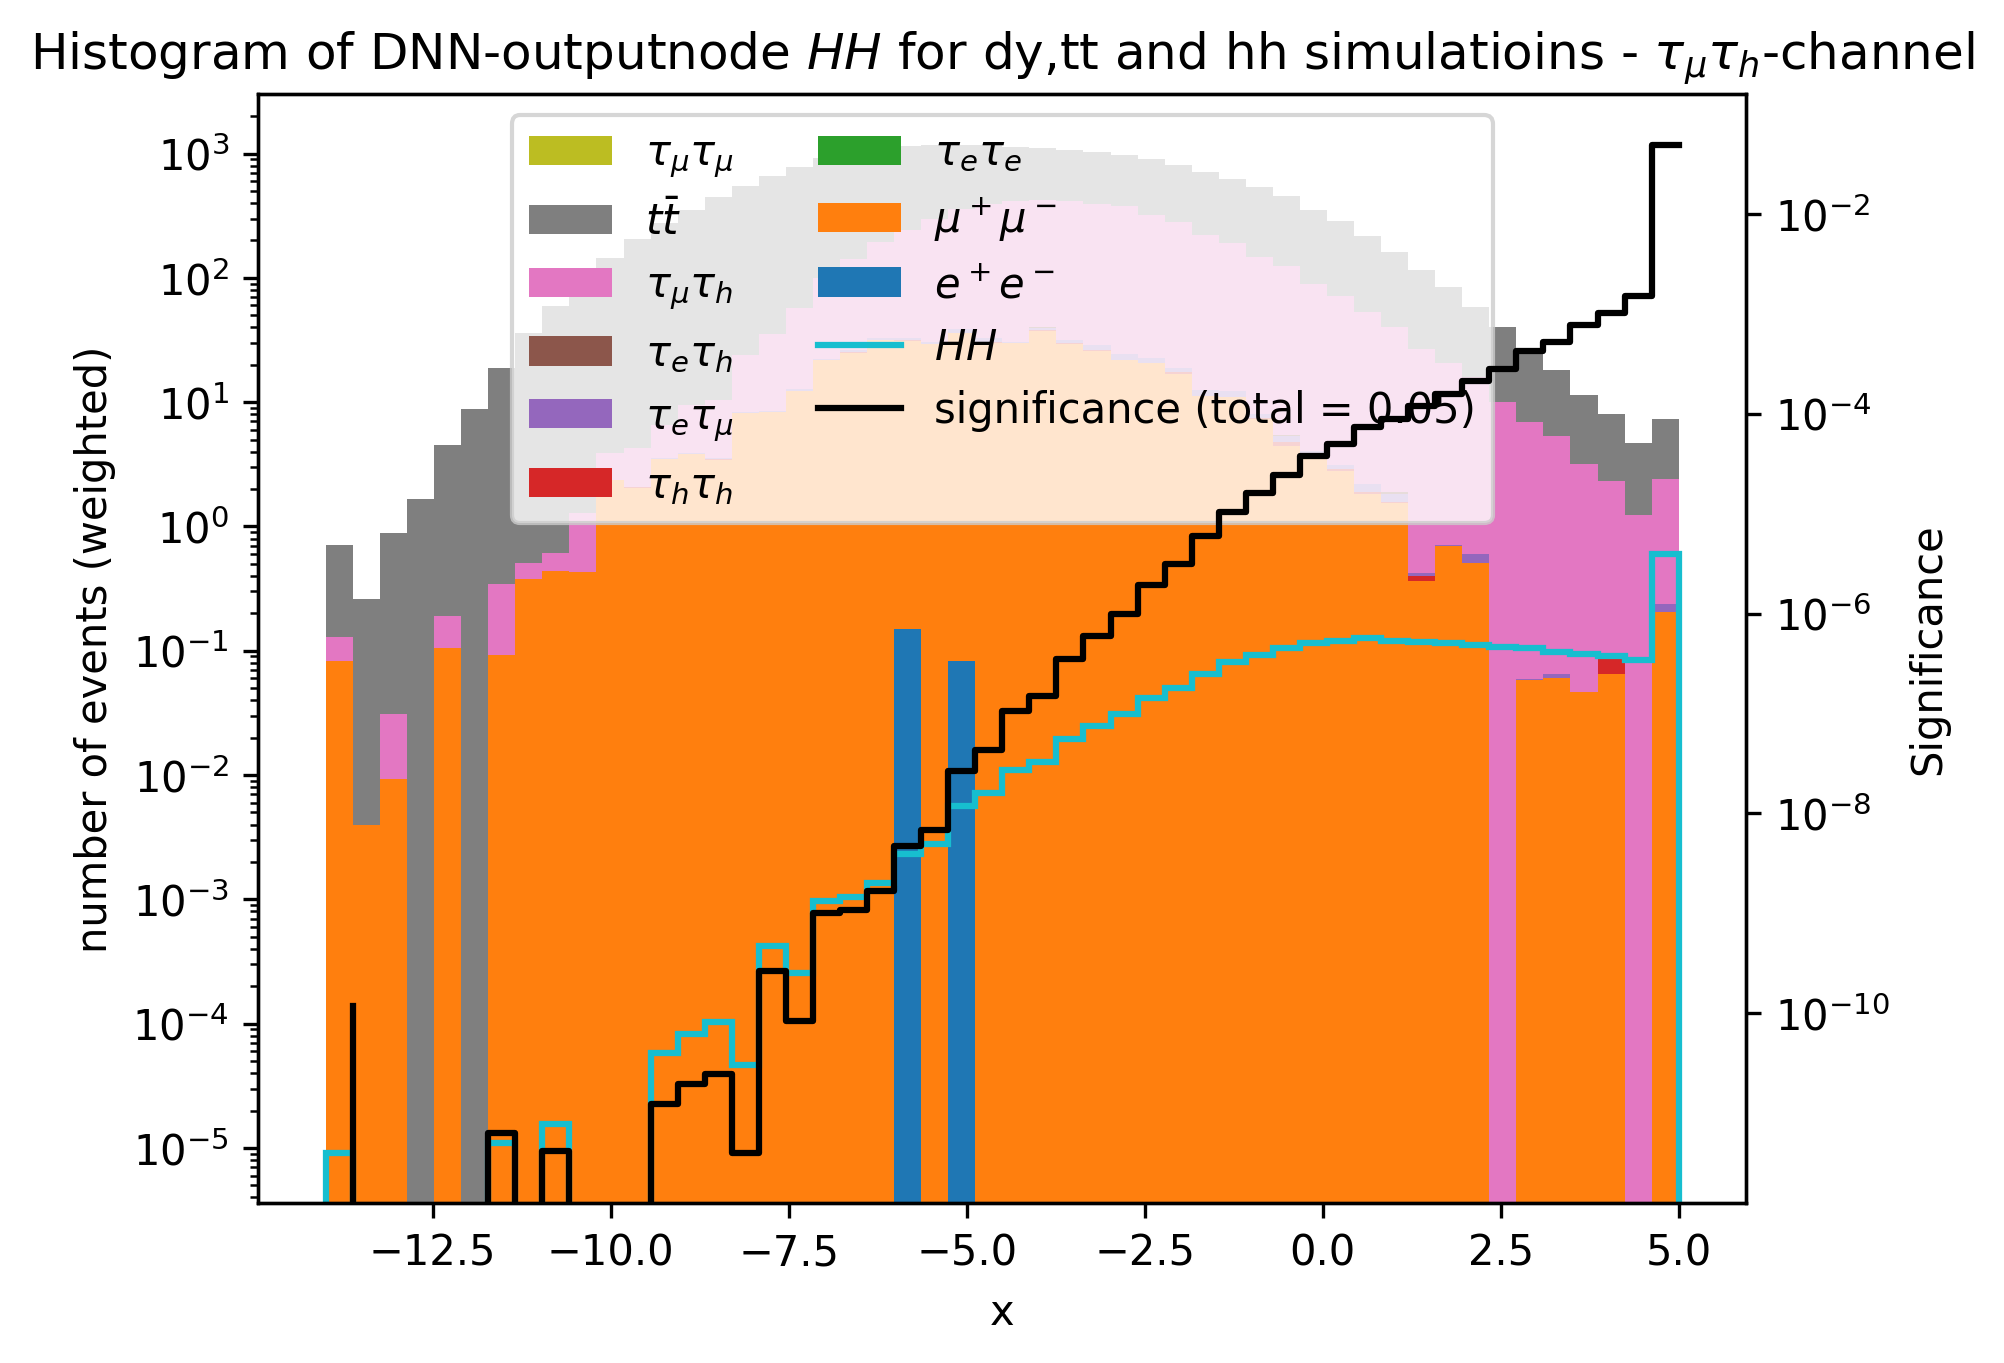
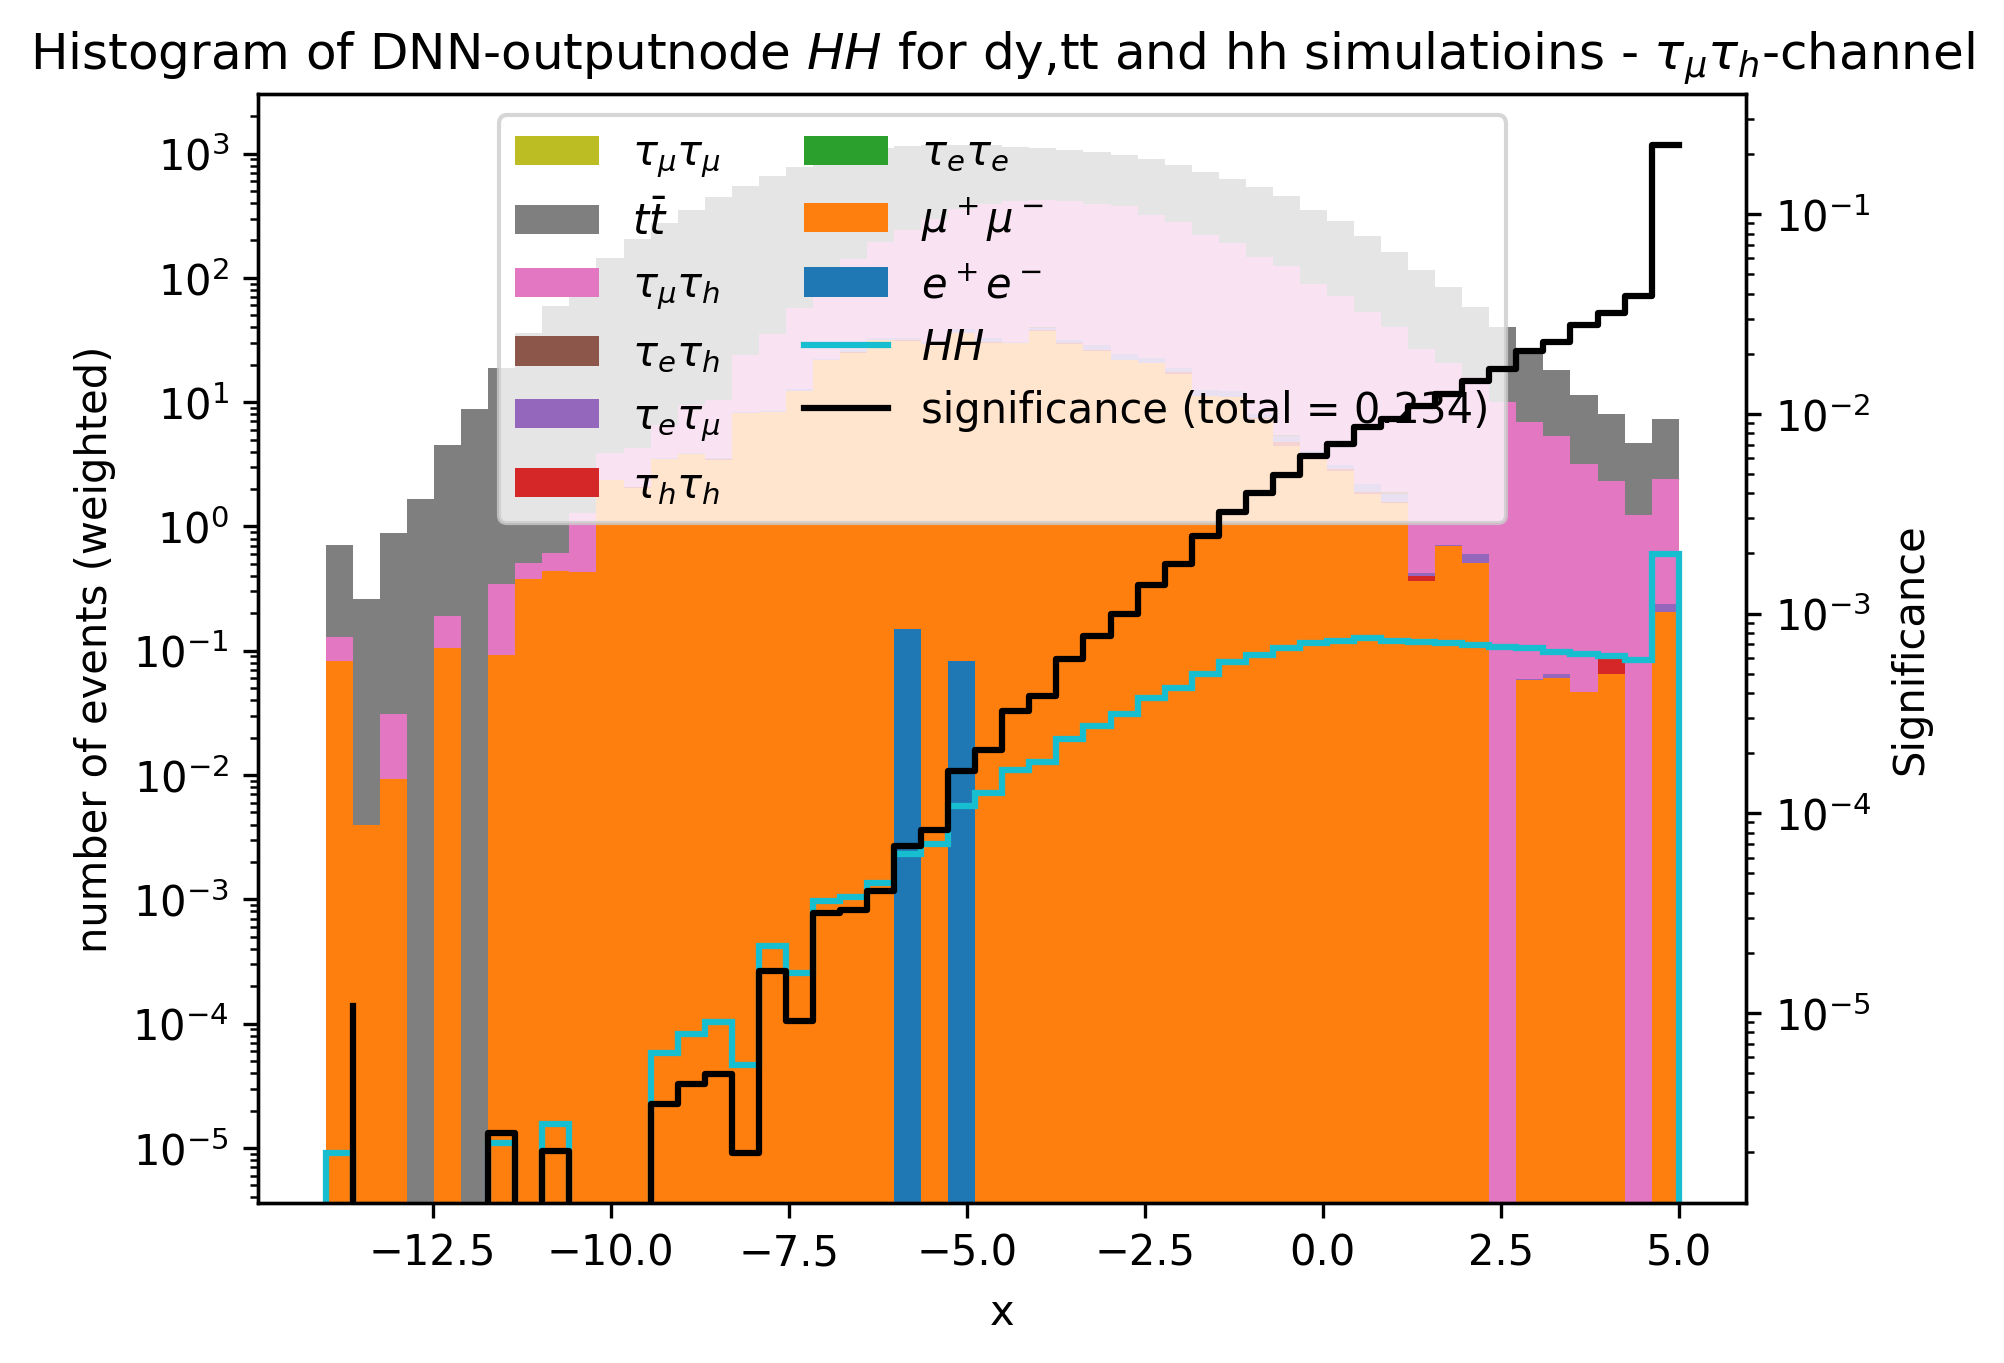
Formel für die Signifikanz korrigiert (von s^2/B zu s/sqrt(B))

diff --git a/plotting/hists_1_logit.py b/plotting/hists_1_logit.py
@@ -66,7 +66,8 @@ for i in [1,2,3]:
     #zweite Achse
     background_bins = np.sum(dy.values(),axis=0)+ tt.values()
     signal_bins = hh.values()
-    significance = signal_bins**2/background_bins
+    significance = signal_bins/np.sqrt(background_bins)
+    significance = np.nan_to_num(significance, nan=0.0) #ist hier möglich, da signal bei den Problemstellen = 0 ist
     significance_total = round(np.sqrt(np.sum(significance**2)),3)
     ax2 = ax1.twinx()  # Erstellt die rechte Achse
     ax2.step(np.linspace(-14+19/50, 5, 50),significance, label=f"significance (total = {significance_total})", color="black")
@@ -118,8 +119,8 @@ for i in [1,2,3]: #i steht für den channel
     #zweite Achse
     background_bins = np.sum(dy.values(),axis=0)
     signal_bins = hh.values()
-    significance = signal_bins**2/background_bins
-    #significance = np.nan_to_num(significance, nan=0.0)
+    significance = signal_bins/np.sqrt(background_bins)
+    significance = np.nan_to_num(significance, nan=0.0) #ist hier möglich, da signal bei den Problemstellen = 0 ist
     significance_total = round(np.sqrt(np.sum(significance**2)),3)
     ax2 = ax1.twinx()  # Erstellt die rechte Achse
     ax2.step(np.linspace(-14+19/50, 5, 50),significance, label=f"significance (total = {significance_total})", color="black")

diff --git a/plotting/hists_2_subdevided_logit.py b/plotting/hists_2_subdevided_logit.py
@@ -106,8 +106,8 @@ for i in [1,2,3]: #i steht für den channel
     #zweite Achse
     background_bins = np.sum(dy.values(),axis=0)
     signal_bins = hh.values()
-    significance = signal_bins**2/background_bins
-    #significance = np.nan_to_num(significance, nan=0.0)
+    significance = signal_bins/np.sqrt(background_bins)
+    significance = np.nan_to_num(significance, nan=0.0)  #ist möglich, denn signal ist in den betroffenen bins = 0
     significance_total = round(np.sqrt(np.sum(significance**2)),3)
     ax2 = ax1.twinx()  # Erstellt die rechte Achse
     ax2.step(np.linspace(-14+19/50, 5, 50),significance, label=f"significance (total = {significance_total})", color="black")
@@ -165,7 +165,7 @@ for i,id in enumerate([147,151,175,179,203,207],start=0): #id steht für categor
     #zweite Achse
     background_bins = np.sum(dy.values(),axis=0)
     signal_bins = hh.values()
-    significance = signal_bins**2/background_bins
+    significance = signal_bins/np.sqrt(background_bins)
     significance = np.nan_to_num(significance, nan=0.0)  # Das ist hier möglich, da hier bei background=0 auch signal=0 gilt
     significance_total = round(np.sqrt(np.sum(significance**2)),3)
     ax2 = ax1.twinx()  # Erstellt die rechte Achse

diff --git a/plotting/hists_2_subdevided.py b/plotting/hists_2_subdevided.py
@@ -93,7 +93,7 @@ for i in [1,2,3]: #i steht für den channel
     #zweite Achse
     background_bins = np.sum(dy.values(),axis=0)
     signal_bins = hh.values()
-    significance = signal_bins**2/background_bins
+    significance = signal_bins/np.sqrt(background_bins)
     significance_total = round(np.sqrt(np.sum(significance**2)),3)
     ax2 = ax1.twinx()  # Erstellt die rechte Achse
     ax2.step(np.linspace(0, 1, 100),significance, label=f"significance (total = {significance_total})", color="black")
@@ -149,7 +149,7 @@ for i,id in enumerate([147,151,175,179,203,207],start=0): #id steht für categor
     #zweite Achse
     background_bins = np.sum(dy.values(),axis=0)
     signal_bins = hh.values()
-    significance = signal_bins**2/background_bins
+    significance = signal_bins/np.sqrt(background_bins)
     significance_total = round(np.sqrt(np.sum(significance**2)),3)
     ax2 = ax1.twinx()  # Erstellt die rechte Achse
     ax2.step(np.linspace(0, 1, 100),significance, label=f"significance (total = {significance_total})", color="black")

diff --git a/plotting/hists_1.py b/plotting/hists_1.py
@@ -47,7 +47,7 @@ for i in [1,2,3]:
     #zweite Achse
     background_bins = np.sum(dy.values(),axis=0)+ tt.values()
     signal_bins = hh.values()
-    significance = signal_bins**2/background_bins
+    significance = signal_bins/np.sqrt(background_bins)
     significance_total = round(np.sqrt(np.sum(significance**2)),3)
     ax2 = ax1.twinx()  # Erstellt die rechte Achse
     ax2.step(np.linspace(0, 1, 100),significance, label=f"significance (total = {significance_total})", color="black")
@@ -99,7 +99,7 @@ for i in [1,2,3]: #i steht für den channel
     #zweite Achse
     background_bins = np.sum(dy.values(),axis=0)
     signal_bins = hh.values()
-    significance = signal_bins**2/background_bins
+    significance = signal_bins/np.sqrt(background_bins)
     significance_total = round(np.sqrt(np.sum(significance**2)),3)
     ax2 = ax1.twinx()  # Erstellt die rechte Achse
     ax2.step(np.linspace(0, 1, 100),significance, label=f"significance (total = {significance_total})", color="black")
